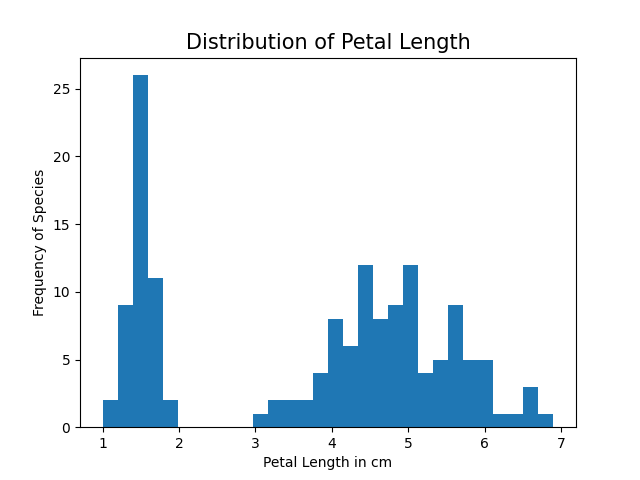
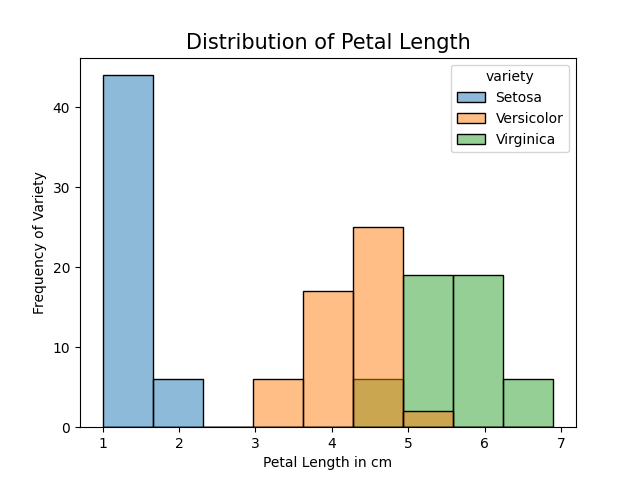
Changing histograms to seaborn to have different colours representing the variety

diff --git a/Analysis.py b/Analysis.py
@@ -72,42 +72,42 @@ with open('Summary.txt','w') as s:
 #plt.clf clears the plot figure, so that plots do not overlap on top of each other
 
 #Sepal Length Histogram
-plt.hist(df['sepal.length'], bins=30)
+sns.histplot(data = df, x = "sepal.length", hue="variety")
 plt.title("Distribution of Sepal Length",fontsize = 15)
 plt.xlabel("Sepal Length in cm", fontsize = 10)
-plt.ylabel("Frequency of Species", fontsize = 10)
+plt.ylabel("Frequency of Variety", fontsize = 10)
 plt.savefig('sepal_length.png')
 plt.clf()
 
 #Sepal Width Histogram
-plt.hist(df['sepal.width'], bins=30)
+sns.histplot(data = df, x = "sepal.width", hue="variety")
 plt.title("Distribution of Sepal Width",fontsize = 15)
 plt.xlabel("Sepal Width in cm", fontsize = 10)
-plt.ylabel("Frequency of Species", fontsize = 10)
+plt.ylabel("Frequency of Variety", fontsize = 10)
 plt.savefig('sepal_width.png')
 plt.clf()
 
 #Petal Length Histogram
-plt.hist(df['petal.length'], bins=30)
+sns.histplot(data = df, x = "petal.length", hue="variety")
 plt.title("Distribution of Petal Length",fontsize = 15)
 plt.xlabel("Petal Length in cm", fontsize = 10)
-plt.ylabel("Frequency of Species", fontsize = 10)
+plt.ylabel("Frequency of Variety", fontsize = 10)
 plt.savefig('petal_length.png')
 plt.clf()
 
 #Petal Width Histogram
-plt.hist(df['petal.width'], bins=30)
+sns.histplot(data = df, x = "petal.width", hue="variety")
 plt.title("Distribution of Petal Width",fontsize = 15)
 plt.xlabel("Petal Width in cm", fontsize = 10)
-plt.ylabel("Frequency of Species", fontsize = 10)
+plt.ylabel("Frequency of Variety", fontsize = 10)
 plt.savefig('petal_width.png')
 plt.clf()
 
 #Variety of Species Histogram
-plt.hist(df['variety'], bins=30)
+sns.histplot(data = df, x = "variety", hue="variety")
 plt.title("Distribution of Species",fontsize = 15)
 plt.xlabel("Species Name", fontsize = 10)
-plt.ylabel("Frequency of Species", fontsize = 10)
+plt.ylabel("Frequency of Variety", fontsize = 10)
 plt.savefig('variety.png')
 plt.clf()
 
@@ -116,7 +116,7 @@ plt.clf()
 #3 Scatter Plots of Each variable pair
 #Seaborn used to create scatterplot to add a hue to the variety.
 #Plot design still makes use of matplotlib (titles and axis)
-#All scatter plots are outputted to png files
+#All scatter plots are outputted to individual png files png files
 
 #Sepal Length and Sepal Width
 a = sns.scatterplot(x="sepal.length", y="sepal.width", hue="variety", data=df)
